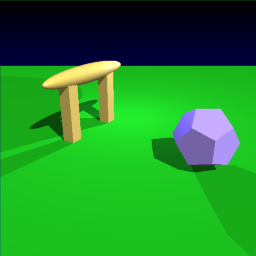
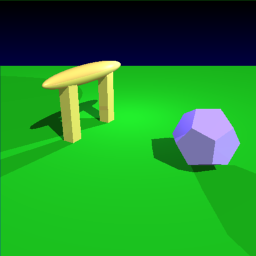
reflection

Changed region(s): [[0.1562, 0.25, 0.4688, 0.5625]]

diff --git a/cs488/A4/A4.cpp b/cs488/A4/A4.cpp
@@ -7,6 +7,7 @@ using namespace glm;
 using namespace std;
 
 #define DISTANCE 10.0
+#define MAX_RECURSE 100
 #define EPSILON 0.0001
 #include <glm/gtx/io.hpp>
 
@@ -73,13 +74,14 @@ void A4_Render(
 	// }
 	// rendering code
 	for (uint y = 0; y < h; ++y) {
-		//std::cout << "Currently Handling Row: " << y << std::endl;
+		// std::cout << "Currently Handling Row: " << y << std::endl;
+		// progress bar display
 		for (uint x = 0; x < w; ++x) {
 			printf("\r[%3d%%]", (int) ((y * h + x) * 100 / (1.0 * w * h)));
 #ifdef ANTIALIASING
 			//if (ANTIALIASING)
 			//{
-				auto p_world = world_coords(x, y, big_trans);
+				auto p_world =  world_coords(x, y, big_trans);
 				auto p_world1 = world_coords(x + 1, y, big_trans);
 				auto p_world2 = world_coords(x - 1, y, big_trans);
 				auto p_world3 = world_coords(x, y + 1, big_trans);
@@ -90,7 +92,7 @@ void A4_Render(
 				p_world3 = 0.5 * p_world + 0.5 * p_world3;
 				p_world4 = 0.5 * p_world + 0.5 * p_world4;
 
-				ray r = castRay(glm::dvec4(eye, 1), p_world);
+				ray r =  castRay(glm::dvec4(eye, 1), p_world);
 				ray r1 = castRay(glm::dvec4(eye, 1), p_world1);
 				ray r2 = castRay(glm::dvec4(eye, 1), p_world2);
 				ray r3 = castRay(glm::dvec4(eye, 1), p_world3);
@@ -102,7 +104,7 @@ void A4_Render(
 				glm::dvec3 color3(0, 0, 0);
 				glm::dvec3 color4(0, 0, 0);
 
-				Hit hc = compute_ray_color(r, lights, 0);
+				Hit hc =  compute_ray_color(r, lights, 0);
 				Hit hc1 = compute_ray_color(r1, lights, 0);
 				Hit hc2 = compute_ray_color(r2, lights, 0);
 				Hit hc3 = compute_ray_color(r3, lights, 0);
@@ -158,7 +160,7 @@ void A4_Render(
 				image(x, y, 1) = color.g;
 				image(x, y, 2) = color.b;
 #else			//} else {
-					auto p_world = world_coords(x, y, big_trans);
+				auto p_world = world_coords(x, y, big_trans);
 				ray r = castRay(dvec4(eye, 1), p_world);
 				glm::dvec3 color(0, 0, 0);
 				Hit hc = compute_ray_color(r, lights, 0);
@@ -172,7 +174,7 @@ void A4_Render(
 					image(x, y, 1) = color.g; //green
 					image(x, y, 2) = color.b; //blue
 				//}
-			}
+				}
 #endif
 		}
 	}
@@ -226,11 +228,27 @@ intersection hit_detection(const ray & r, SceneNode * root) {
 
 dvec3 directLight(const std::list<Light*> & lights, const intersection & int_primary, int counter) {
 	glm::vec3 color(0, 0, 0);
+
+	if (counter > MAX_RECURSE) {
+		return color;
+	}
+
 	glm::dvec4 point = int_primary.received_ray.origin + int_primary.received_ray.dir * int_primary.t;
-	
+
+	// reflectance factor
+	double reflectance = 0.3;
+	// double reflectance = simplifiedFresnelModel(int_primary.normal,
+	// 											glm::normalize(int_primary.received_ray.dir),
+	// 											int_primary.from_mat->refractive_index,
+	// 											int_primary.mat->refractive_index);
+
 	glm::dvec3 Ri = glm::normalize(glm::dvec3(int_primary.received_ray.dir));
 	glm::dvec3 N = glm::normalize(glm::dvec3(int_primary.normal));
 	glm::dvec3 Rr = Ri - 2.0 * N * (glm::dot(Ri, N));
+
+	dvec4 Rr_dir = dvec4(glm::normalize(Rr), 0);
+	ray reflected(point + EPSILON * Rr_dir, Rr_dir);
+	Hit hc = compute_ray_color(reflected, lights, counter + 1);
 
 	// calculate diffused color.
 	for (auto light : lights) {
@@ -276,17 +294,24 @@ dvec3 directLight(const std::list<Light*> & lights, const intersection & int_pri
 		}
 		color += colorSum;
 	}
+
+	color += reflectance * int_primary.mat->m_ks * glm::vec3(hc.color);
+
 	return color;
 }
 
 Hit compute_ray_color(const ray & r, const std::list<Light*> & lights, int counter) {
 	dvec3 color(0, 0, 0);
+
+	if (counter > MAX_RECURSE) {
+		return {false, color};
+	}
+
 	intersection primary_intersect = hit_detection(r, Scene);
 	
 	if (primary_intersect.hit) {
         // ambient color
-		color += primary_intersect.mat->m_kd * aColor;
-		
+		color += primary_intersect.mat->m_kd * aColor;	
 		// calculate the ray color
 		color += directLight(lights, primary_intersect, counter);
 	}
@@ -300,4 +325,25 @@ dvec3 backgroundColor(int x, int y)
 	color.g += 0;
 	color.b += (double)y / IMAGEHEIGHT;
 	return color;
+}
+
+// simulate the fresnel effect
+double simplifiedFresnelModel(const glm::dvec4 &normal,
+							  const glm::dvec4 &IncomingVector,
+							  double indexA,
+							  double indexB) {
+	// A->first medium B->second medium
+	double n = indexA / indexB;
+	double cosI = -glm::dot(IncomingVector, normal);
+	double sinT_2 = n * n * (1 - cosI * cosI);
+
+	if (sinT_2 > 1){
+		return 1.0;
+	}
+	double cosT = sqrt(1.0 - sinT_2);
+	double Rs = (indexB * cosI - indexA * cosT) / (indexB * cosI + indexA * cosT);
+	Rs = Rs * Rs;
+	double Rp = (indexB * cosT - indexA * cosI) / (indexA * cosI + indexB * cosT);
+	Rp = Rp * Rp;
+	return (Rs + Rp) / 2.0;
 }

diff --git a/cs488/A4/Mesh.cpp b/cs488/A4/Mesh.cpp
@@ -56,9 +56,9 @@ Mesh::Mesh( const std::string& fname )
 
   const glm::vec3 min{minX, minY, minZ};
   const glm::vec3 max{maxX, maxY, maxZ};
-#ifdef RENDER_BOUNDING_VOLUMES
+//#ifdef RENDER_BOUNDING_VOLUMES
   boundingVolume = new NonhierSphere((max + min)/2, glm::length(max - min)/2);
-#endif
+//#endif
 }
 
 Mesh::~Mesh() {
@@ -69,9 +69,9 @@ Mesh::~Mesh() {
 
 
 intersection Mesh::intersect(const ray& ray) {
-#ifdef RENDER_BOUNDING_VOLUMES
+//#ifdef RENDER_BOUNDING_VOLUMES
   if(!boundingVolume->intersect(ray).hit) return intersection();
-#endif
+//#endif
   double Infinity = std::numeric_limits<double>::infinity();
   double t = Infinity;
 

diff --git a/cs488/A4/Mesh.hpp b/cs488/A4/Mesh.hpp
@@ -14,7 +14,7 @@
 // Use this #define to selectively compile your code to render the
 // bounding boxes around your mesh objects. Uncomment this option
 // to turn it on.
-#define RENDER_BOUNDING_VOLUMES
+//#define RENDER_BOUNDING_VOLUMES
 
 struct Triangle
 {
@@ -34,9 +34,9 @@ class Mesh : public Primitive {
 public:
   Mesh( const std::string& fname );
   virtual intersection intersect(const ray& ray);
-#ifdef RENDER_BOUNDING_VOLUMES
+//#ifdef RENDER_BOUNDING_VOLUMES
   NonhierSphere* boundingVolume;
-#endif
+//#endif
   virtual ~Mesh();
 
 private:

diff --git a/cs488/A4/A4.hpp b/cs488/A4/A4.hpp
@@ -45,3 +45,9 @@ glm::dvec3 directLight(const std::list<Light*> & lights, const intersection & in
 glm::dvec3 backgroundColor(int x, int y);
 Hit compute_ray_color(const ray & r, const std::list<Light*> & lights, int counter);
 void printProgress (float percentage);
+
+// simulate the fresnel effect
+double simplifiedFresnelModel(const glm::dvec4 &normal,
+							  const glm::dvec4 &IncomingVector,
+							  double indexA,
+							  double indexB);
